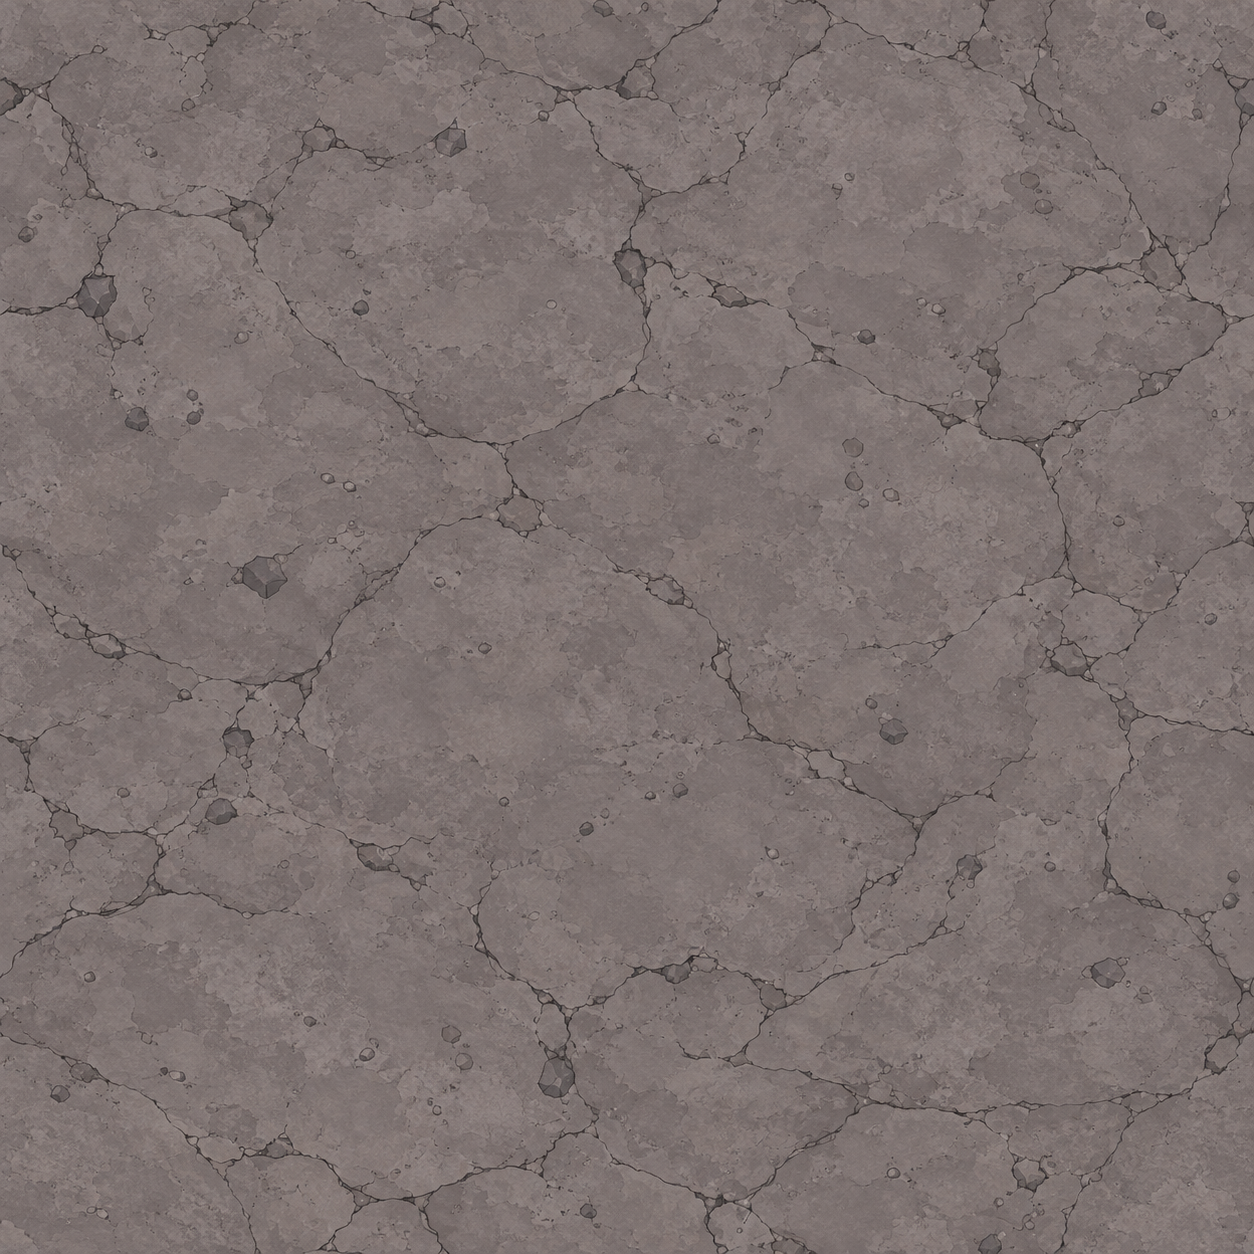
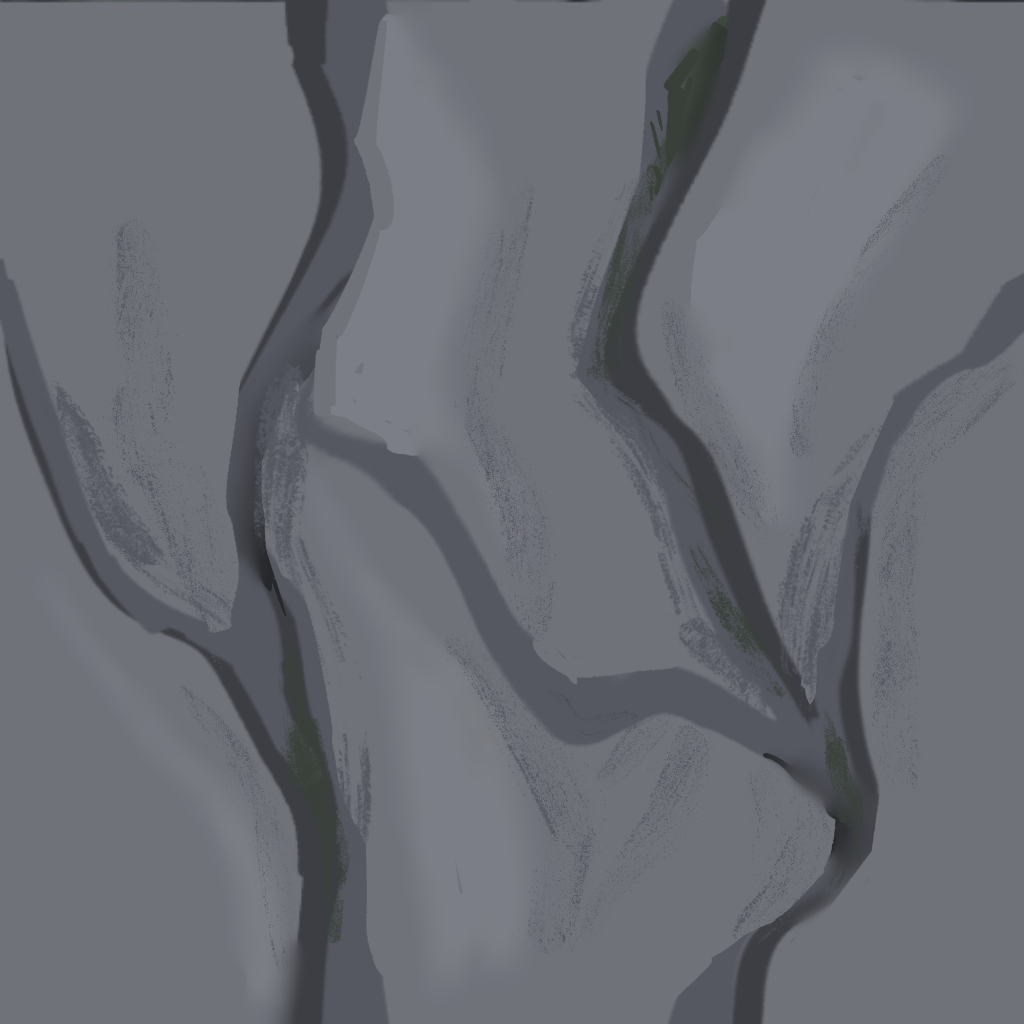
feat: replace builtin terrain artwork

diff --git a/AGENTS.md b/AGENTS.md
@@ -8,6 +8,7 @@
 - 世界生成算法v7：沿用完整候选搜索和逐图严格生态匹配，新增特殊地图刷新点旋转/平移/高度对齐及配方手工点修改。新导入须选地形，旧配方缺字段显示“不限制地形”；失败不得换生态。
 - 普通怪改为 `LevelData.monster_spawn_points` 固定相邻格组，每点独立30秒周期，默认存活上限2。普通物种地形严格读取设计表，不沿用旧怪池自定义生态。静止区允许固定点，禁刷阻止生成；无点无普通怪。精英/Boss仍按探索时间。地图怪物页以点操作为主，高级配置折叠；世界生成预览复用同一编辑控件。验收与使用见 `docs/小怪刷新点_验收.md` 和 `docs/怪物刷新_策划使用说明.md`。
 - 点的 `activation_radius` 同时控制刷新与追踪；0自动按实际相机可视地面边界+4m，正数固定米数。只在玩家进入点中心圆形范围内累计30秒，离开暂停并取消攻击、怪物回出生格。画面外已激活有怪点用紫色方向提示引导玩家；精英不套用此范围。
+- 2026-10-19 已原路径替换内置 `grass / rock / sand / water` 四种地貌图片，地块 ID 与旧地图数据不变；`painted_grass / painted_meadow` 明确保留旧素材。来源与哈希见 `assets/source_art/terrain_handoff_v02/replacement_manifest_20261019.json`。
 - 地形碰撞按8×8区块及高度层共享物理体，命中形状保留格与层级；SurfaceZone只是逻辑标签节点。鱼尾水面/水下5m/s，完整移动回归通过。64×64/96×64混合世界碰撞对象472/571；600×600满图战斗性能未验收。
 - 用户明确要求交付最终提交，不能把已完成代码长期留在未提交状态，也不要每修一个问题就新建一个空分支。后续开发沿用当前经确认的工作分支，完成后按授权收口；禁止擅自提交用户正在编辑的地图/场景。
 - 使用说明见 `docs/怪物刷新_策划使用说明.md`、`docs/世界生成_策划使用说明.md`。本轮提交前必须从暂存区构建独立副本并验证，不能依赖工作区未提交地图或资源。

diff --git a/TERRAIN_VISUAL_RULES.md b/TERRAIN_VISUAL_RULES.md
@@ -3,6 +3,11 @@
 当前正式接入标准来自 `assets/source_art/terrain_handoff_v02/`。原始交付说明和
 校验记录保存在 `docs/terrain_art_handoff_v02/`。
 
+2026-10-19 已在原路径替换内置 `grass / rock / sand / water` 的顶面、立面、
+收边和泡沫图片，地块 ID 不变，因此已有地图直接升级显示。来源与哈希见
+`assets/source_art/terrain_handoff_v02/replacement_manifest_20261019.json`。
+`painted_grass / painted_meadow` 及其 `scene_pack_20261014` 图片保持原样。
+
 ## 相机
 
 - 使用 `data/art_profile.tres` 作为唯一相机规范。
